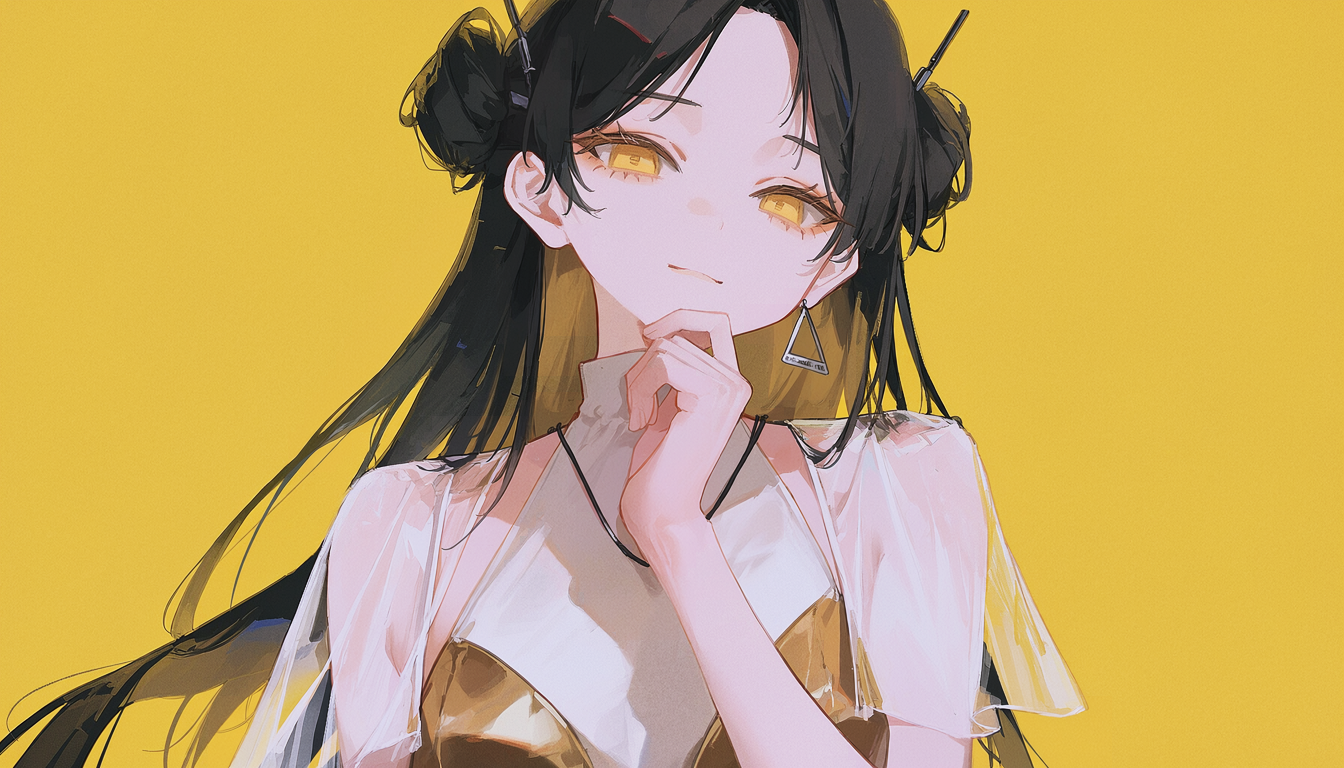
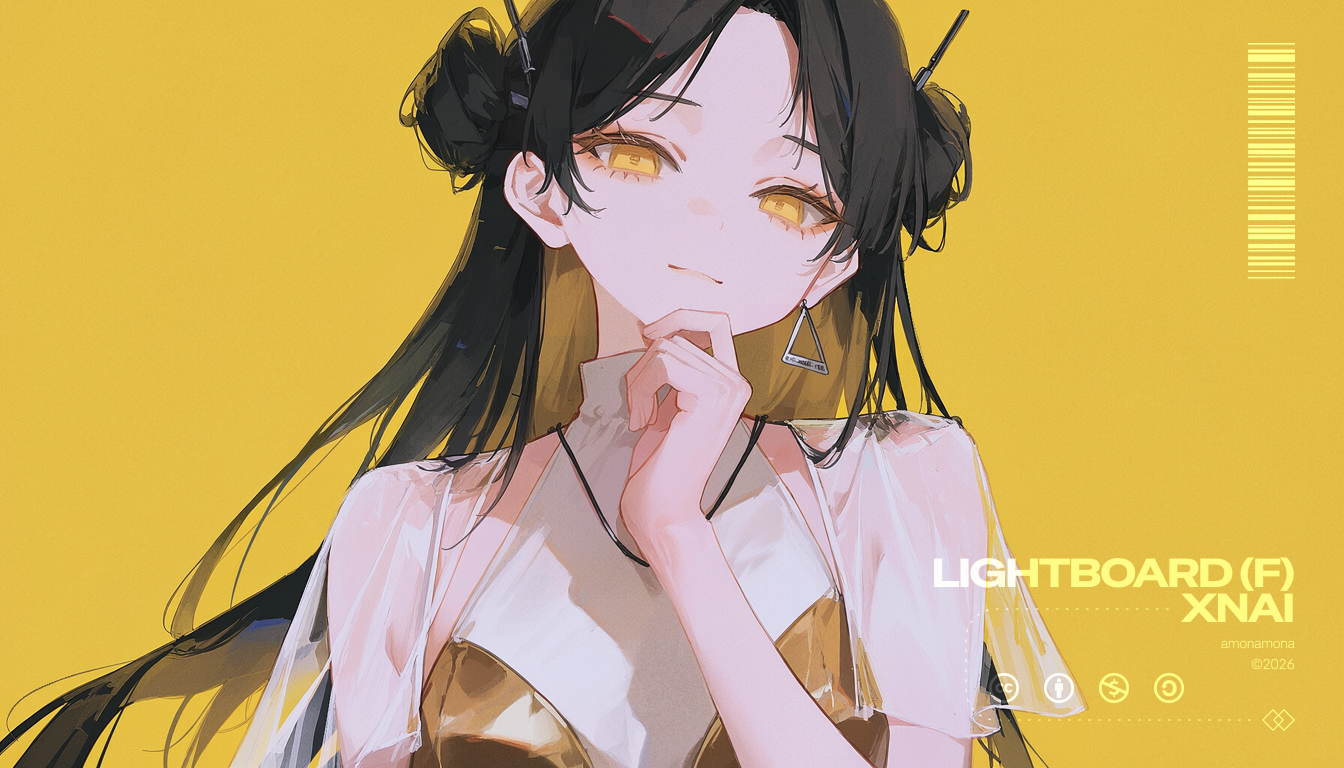
queue image regen, 4.5.5

diff --git a/lb-xnai/guide.html b/lb-xnai/guide.html
@@ -1,0 +1,261 @@
+<p>
+  <br />
+</p>
+<div style="background: #f6f3ea; color: #111111; font-family: 'Pretendard', sans-serif; margin: 0 auto; max-width: 820px; word-break: keep-all">
+  <div>스플래시 이미지</div>
+  <div
+    style="
+      background: #111111;
+      color: #ffffff;
+      font-size: clamp(24px, 5.5vw, 38px);
+      font-weight: 900;
+      letter-spacing: -0.06em;
+      line-height: 1;
+      padding: clamp(14px, 3vw, 20px) clamp(16px, 5vw, 48px);
+    "
+    >라이트보드<span style="color: #e6bb35">삽화</span></div
+  >
+  <div style="padding: 0 clamp(16px, 5vw, 48px)">
+    <div style="font-size: 14px; line-height: 1.8; padding: 24px 0">
+      <div style="display: grid; grid-template-columns: 14px 1fr">
+        <div style="padding-top: 8px"><div style="background: #e6bb35; height: 8px; width: 8px">&nbsp;</div></div>
+        <div
+          ><a href="https://arca.live/b/characterai/181037530"
+            ><span style="border-bottom: 1px solid #111111; color: #111111; display: inline-block; font-weight: 800">처음사용자용 가이드</span></a
+          >를 따라 백엔드와 삽화 기본 설정을 둘 다 완료하세요</div
+        ></div
+      >
+      <div style="display: grid; grid-template-columns: 14px 1fr; margin-top: 8px">
+        <div style="padding-top: 8px"><div style="background: #e6bb35; height: 8px; width: 8px">&nbsp;</div></div>
+        <div>삽화 4.5.4 기준으로 작성했어요</div></div
+      ></div
+    >
+
+    <details style="border-top: 1px solid #111111">
+      <summary style="list-style: none"
+        ><div style="font-size: clamp(26px, 6vw, 40px); font-weight: 900; letter-spacing: -0.06em; line-height: 0.95; padding: 24px 0"
+          >프리셋 관리 ＋</div
+        ></summary
+      >
+      <div style="padding: 8px 0 40px">
+        <div style="font-size: 14px; line-height: 1.85"
+          >다음 위치 중 원하는 곳에, <span style="background: #e6bb35; font-weight: 700; padding: 1px 6px">프리셋 (이름)</span>이라는 이름의 로어북을
+          생성하세요.</div
+        >
+        <ul style="font-size: 14px; line-height: 1.85; margin: 12px 0 0; padding-left: 20px">
+          <li>캐릭터 로어북</li>
+          <li>활성화된 모듈</li>
+        </ul>
+        <div style="font-size: 14px; line-height: 1.85; margin-top: 24px"
+          ><span style="font-weight: 800">이 로어북은 절대 활성화하지 마세요.</span> (활성화 키는 비워두기, 언제나 활성화는 체크 금지)</div
+        >
+        <div style="font-size: 14px; line-height: 1.85; margin-top: 12px">내용을 다음과 같이 교체하세요.</div>
+        <pre><div style="background: #1e1d1a; color: #f0e6d2; font-family: monospace; font-size: 12px; line-height: 1.7; margin: 12px 0 0; overflow-x: auto; padding: 18px 20px"><span style="color: #e6bb35">[Positive]</span>
+{prompt}, year 2025, masterpiece
+
+<span style="color: #e6bb35">[Negative]</span>
+bad quality, worst quality</div></pre>
+        <div style="font-size: 14px; line-height: 1.85; margin-top: 24px"
+          ><span style="font-family: monospace; font-size: 13px">[Positive]</span>와
+          <span style="font-family: monospace; font-size: 13px">[Negative]</span> 아래 내용은 사용 중인 NovelAI 그림체 관련 태그를 사용하세요.
+          <span style="font-family: monospace; font-size: 13px">{prompt}</span>의 위치는 적절한 곳으로 바꿀 수 있어요.
+          <span style="font-family: monospace; font-size: 13px">[Negative]</span>에도 똑같이 넣을 수 있어요.</div
+        >
+        <pre><div style="background: #1e1d1a; color: #f0e6d2; font-family: monospace; font-size: 12px; line-height: 1.7; margin: 12px 0 0; overflow-x: auto; padding: 18px 20px"><span style="color: #e6bb35">[Positive]</span>
+..., year 2025,
+
+{prompt},
+
+masterpiece, ...</div></pre>
+        <div style="background: #e6bb35; font-size: 14px; font-weight: 700; line-height: 1.85; margin-top: 24px; padding: 14px 16px"
+          >삽화 토글의 &quot;프리셋&quot; 칸에 &quot;이름&quot;을 입력하면, 재생성을 포함한 이후 이미지는 그 프리셋을 사용해 생성됩니다.</div
+        ></div
+      >
+    </details>
+
+    <details style="border-top: 1px solid #111111">
+      <summary style="list-style: none"
+        ><div style="font-size: clamp(26px, 6vw, 40px); font-weight: 900; letter-spacing: -0.06em; line-height: 0.95; padding: 24px 0"
+          >태그 가이드 제공하기 ＋</div
+        ></summary
+      >
+      <div style="padding: 8px 0 40px">
+        <div style="font-size: 14px; line-height: 1.85"
+          >다음 위치 중 원하는 곳에, 정확히
+          <span style="background: #e6bb35; font-family: monospace; font-size: 13px; padding: 1px 6px"><a>lb-xnai.lb.extra</a></span>
+          <span style="color: #6b6a64; font-size: 12px">(엘비-엑스엔에이아이.엘비.엑스트라)</span>라는 이름의 로어북을 생성하세요.</div
+        >
+        <ul style="font-size: 14px; line-height: 1.85; margin: 12px 0 0; padding-left: 20px">
+          <li>캐릭터 로어북</li>
+          <li>활성화된 모듈</li>
+        </ul>
+        <div style="font-size: 14px; line-height: 1.85; margin-top: 24px"
+          ><span style="font-weight: 800">이 로어북은 절대 활성화하지 마세요.</span> (활성화 키는 비워두기, 언제나 활성화는 체크 금지)</div
+        >
+        <div style="font-size: 14px; line-height: 1.85; margin-top: 12px">내용을 다음과 같이 교체하세요.</div>
+        <pre><div style="background: #1e1d1a; color: #f0e6d2; font-family: monospace; font-size: 12px; line-height: 1.7; margin: 12px 0 0; overflow-x: auto; padding: 18px 20px"><span style="color: #e6bb35">## Tagging Guide for {{char}}</span>
+
+...</div></pre>
+        <div style="font-size: 14px; line-height: 1.85; margin-top: 24px"
+          >헤딩도 포함해서 정해진 형식은 없어요. 단, <span style="font-family: monospace; font-size: 13px">##</span>부터 시작하세요.</div
+        >
+        <div style="font-size: 14px; line-height: 1.85; margin-top: 12px"
+          >태그를 제일 잘 표현할 수 있는 형태로 작성하세요. 캐릭터 외에 장소같은 것도 지정할 수 있어요.</div
+        >
+        <pre><div style="background: #1e1d1a; color: #f0e6d2; font-family: monospace; font-size: 12px; line-height: 1.7; margin: 12px 0 0; overflow-x: auto; padding: 18px 20px"><span style="color: #e6bb35">## Tagging Guide</span>
+
+<span style="color: #e6bb35">### Mephistopheles</span>
+
+Mephistopheles is red. State such with e.g. `interior, red bus` etc.
+
+<span style="color: #e6bb35">### Project Moon Characters</span>
+
+For appearance, ALWAYS prepend "x (project moon)" where `x` is the character's English name, e.g. "yi sang (project moon)".
+
+LCB sinner uniform in its full set: Black jacket or coat, black vest, white shirt, red necktie, black shoes. Sinners may not wear some items.
+
+<span style="color: #e6bb35">#### Don Quixote</span>
+
+`short blonde hair`</div></pre>
+        <div style="font-size: 12px; margin-top: 8px; text-align: right"
+          ><a href="LINK"><span style="border-bottom: 1px solid #111111; color: #111111; display: inline-block; font-weight: 700">Limbus Company</span></a
+          ><span style="color: #6b6a64">에서의 예시</span></div
+        >
+
+        <div style="border-top: 1px solid #111111; margin-top: 40px; padding-top: 24px">
+          <div style="font-size: clamp(22px, 5vw, 30px); font-weight: 900; letter-spacing: -0.05em; line-height: 1.1">사용자 요구사항 고급</div>
+          <div style="font-size: 14px; line-height: 1.85; margin-top: 16px"
+            ><span style="font-family: monospace; font-size: 13px"><a>lb-xnai.lb.extra</a></span
+            >는 여러 개 넣으면 여러 개 들어가요.</div
+          >
+          <ul style="font-size: 14px; line-height: 1.85; margin: 12px 0 0; padding-left: 20px">
+            <li>페소 외형 태그용, 외부 모듈 로어북</li>
+            <li>캐릭터 외형 태그용, 캐릭터 로어북</li>
+          </ul>
+          <div style="font-size: 14px; line-height: 1.85; margin-top: 24px">외형 태그 시, 삽화는 준수 수준을 3단계로 나눠 생각해요.</div>
+          <div style="border-bottom: 1px solid #111111; margin-top: 12px">
+            <div style="border-top: 1px solid #111111; display: grid; grid-template-columns: minmax(84px, 1fr) minmax(0, 3.2fr); padding: 14px 0">
+              <div
+                ><span style="font-size: 16px; font-weight: 900">참조</span><br /><span style="color: #6b6a64; font-family: monospace; font-size: 11px"
+                  >Reference</span
+                ></div
+              >
+              <div style="font-size: 13px; line-height: 1.8">상황에 따라 모델이 자유롭게 재구성할 수 있어요.</div></div
+            >
+            <div style="border-top: 1px solid #111111; display: grid; grid-template-columns: minmax(84px, 1fr) minmax(0, 3.2fr); padding: 14px 0">
+              <div
+                ><span style="font-size: 16px; font-weight: 900">잠김</span><br /><span style="color: #6b6a64; font-family: monospace; font-size: 11px"
+                  >Locked</span
+                ></div
+              >
+              <div style="font-size: 13px; line-height: 1.8"
+                >주어진 태그는 반드시 넣어야 하지만, 주어지지 않은 태그는 상황에 따라 모델이 자유롭게 추가할 수 있어요.</div
+              ></div
+            >
+            <div style="border-top: 1px solid #111111; display: grid; grid-template-columns: minmax(84px, 1fr) minmax(0, 3.2fr); padding: 14px 0">
+              <div
+                ><span style="font-size: 16px; font-weight: 900">확정</span><br /><span style="color: #6b6a64; font-family: monospace; font-size: 11px"
+                  >Closed</span
+                ></div
+              >
+              <div style="font-size: 13px; line-height: 1.8">주어진 태그는 반드시 넣어야 하고, 넣지 않은 태그는 임의로 추가하지 않아요.</div></div
+            ></div
+          >
+          <div style="font-size: 14px; line-height: 1.85; margin-top: 24px"
+            >기본적으로, 자연어로 안내를 제공하면 <span style="font-weight: 800">참조</span>가 되고, 태그를 제공하면
+            <span style="font-weight: 800">잠김</span>이 돼요. 한 개의 가이드 안에서 다른 준수 지침을 제공하려면 이 용어를 참고하세요.</div
+          >
+          <pre><div style="background: #1e1d1a; color: #f0e6d2; font-family: monospace; font-size: 12px; line-height: 1.7; margin: 12px 0 0; overflow-x: auto; padding: 18px 20px"><span style="color: #e6bb35">## Tagging Guide for {{char}}</span>
+
+<span style="color: #e6bb35">Locked</span> tags for her appearance: `medium blonde hair, 1.1::golden eyes::, ...`
+<span style="color: #e6bb35">Reference</span> tags for her signature fashion: `black techpunk jacket with blue lining, black boots, ...`</div></pre>
+        </div></div
+      >
+    </details>
+
+    <details style="border-top: 1px solid #111111">
+      <summary style="list-style: none"
+        ><div style="font-size: clamp(26px, 6vw, 40px); font-weight: 900; letter-spacing: -0.06em; line-height: 0.95; padding: 24px 0"
+          >토글 가이드 ＋</div
+        ></summary
+      >
+      <div style="padding: 8px 0 40px">
+        <div style="font-size: clamp(22px, 5vw, 30px); font-weight: 900; letter-spacing: -0.05em; line-height: 1.1">스타일</div>
+        <div style="display: grid; grid-template-columns: minmax(96px, 1fr) minmax(0, 2.6fr); margin-top: 16px">
+          <div style="font-size: 14px; font-weight: 900; line-height: 1.5; padding-right: 12px">프롬프트 가중치 약화</div>
+          <div style="font-size: 13px; line-height: 1.8"
+            ><div style="margin-bottom: 6px"><span style="background: #e6bb35; font-size: 12px; font-weight: 700; padding: 1px 6px">권장: 활성화</span></div
+            >장면 설정 등에 가중치 75%를 일괄 적용해요. 이것과 비슷해요.
+            <pre><div style="background: #1e1d1a; color: #f0e6d2; font-family: monospace; font-size: 12px; line-height: 1.7; margin: 12px 0 0; overflow-x: auto; padding: 14px 16px"><span style="color: #e6bb35">[Positive]</span>
+..., year 2025,
+
+0.75::{prompt} ::,
+
+masterpiece, ...</div></pre>
+          </div></div
+        >
+        <div style="display: grid; grid-template-columns: minmax(96px, 1fr) minmax(0, 2.6fr); margin-top: 24px">
+          <div style="font-size: 14px; font-weight: 900; line-height: 1.5; padding-right: 12px">포커스</div>
+          <div style="font-size: 13px; line-height: 1.8"
+            >삽화에 반드시 포함할 중심 인물(들)을 설정해요. 최대캐릭터를 1로 설정해서 개인 삽화만 만들거나, 2로 설정해서 페소와 특정 인물의 커플샷만 만들 수
+            있어요.</div
+          ></div
+        >
+        <div style="display: grid; grid-template-columns: minmax(96px, 1fr) minmax(0, 2.6fr); margin-top: 24px">
+          <div style="font-size: 14px; font-weight: 900; line-height: 1.5; padding-right: 12px">최대캐릭터</div>
+          <div style="font-size: 13px; line-height: 1.8"
+            ><div style="margin-bottom: 6px"
+              ><span style="background: #e6bb35; font-size: 12px; font-weight: 700; padding: 1px 6px">권장: Anima 사용 시 1</span></div
+            >삽화 한 개가 포함할 수 있는 캐릭터의 수를 제한할 수 있어요.</div
+          ></div
+        >
+        <div style="display: grid; grid-template-columns: minmax(96px, 1fr) minmax(0, 2.6fr); margin-top: 24px">
+          <div style="font-size: 14px; font-weight: 900; line-height: 1.5; padding-right: 12px">작가의노트</div>
+          <div style="font-size: 13px; line-height: 1.8"
+            >간단한 추가 지침을 제공할 수 있어요. <span style="font-family: monospace; font-size: 12px"><a>lb-xnai.lb.extra</a></span
+            >보다 짧은 내용을 바꿔가면서 넣을 때 사용하세요.</div
+          ></div
+        >
+        <div style="display: grid; grid-template-columns: minmax(96px, 1fr) minmax(0, 2.6fr); margin-top: 24px">
+          <div style="font-size: 14px; font-weight: 900; line-height: 1.5; padding-right: 12px">외형고정</div>
+          <div style="font-size: 13px; line-height: 1.8"
+            ><span style="font-family: monospace; font-size: 12px"><a>lb-xnai.lb.extra</a></span
+            >, 작가의노트, 캐릭터 태그 기록을 더 강하게 준수하도록 명령할 수 있어요.</div
+          ></div
+        >
+        <div style="display: grid; grid-template-columns: minmax(96px, 1fr) minmax(0, 2.6fr); margin-top: 24px">
+          <div style="font-size: 14px; font-weight: 900; line-height: 1.5; padding-right: 12px">카메라연출</div>
+          <div style="font-size: 13px; line-height: 1.8"
+            ><div style="margin-bottom: 6px"><span style="background: #e6bb35; font-size: 12px; font-weight: 700; padding: 1px 6px">권장: 강화</span></div
+            >구도 연출 강화를 지시할 수 있어요.</div
+          ></div
+        >
+        <div style="display: grid; grid-template-columns: minmax(96px, 1fr) minmax(0, 2.6fr); margin-top: 24px">
+          <div style="font-size: 14px; font-weight: 900; line-height: 1.5; padding-right: 12px">밝기</div>
+          <div style="font-size: 13px; line-height: 1.8">삽화 모듈 버튼들의 다크테마/라이트테마를 바꿀 수 있어요. 삽화 이미지에는 영향을 주지 않아요.</div></div
+        >
+        <div style="border-top: 1px solid #111111; margin-top: 40px; padding-top: 24px">
+          <div style="font-size: clamp(22px, 5vw, 30px); font-weight: 900; letter-spacing: -0.05em; line-height: 1.1">시스템</div>
+          <div style="display: grid; grid-template-columns: minmax(96px, 1fr) minmax(0, 2.6fr); margin-top: 16px">
+            <div style="font-size: 14px; font-weight: 900; line-height: 1.5; padding-right: 12px">긍정프롬</div>
+            <div style="font-size: 13px; line-height: 1.8"
+              >LLM에 전달되지 않고, 프리셋 <span style="font-family: monospace; font-size: 12px">[Positive]</span>의
+              <span style="font-family: monospace; font-size: 12px">{prompt}</span> 맨 뒤에 항상 추가돼요. 대부분 프리셋을 쓰는 게 나아요.</div
+            ></div
+          >
+          <div style="display: grid; grid-template-columns: minmax(96px, 1fr) minmax(0, 2.6fr); margin-top: 24px">
+            <div style="font-size: 14px; font-weight: 900; line-height: 1.5; padding-right: 12px">부정프롬</div>
+            <div style="font-size: 13px; line-height: 1.8"
+              >LLM에 전달되지 않고, 프리셋 <span style="font-family: monospace; font-size: 12px">[Negative]</span>의
+              <span style="font-family: monospace; font-size: 12px">{prompt}</span> 맨 뒤에 항상 추가돼요. 대부분 프리셋을 쓰는 게 나아요.</div
+            ></div
+          >
+        </div></div
+      >
+    </details>
+  </div>
+  <div style="background: #111111; font-size: 0; height: 16px; line-height: 0">&nbsp;</div></div
+>
+<p>
+  <br />
+</p>

diff --git a/lb-xnai/style.html b/lb-xnai/style.html
@@ -445,23 +445,17 @@
 
   @layer lb-xnai-all {
     /* 1. Hide menus during generation */
-    .chattext:has(:is(.x-risu-lb-xnai-all-state, .x-risu-lb-xnai-img-state, .x-risu-lb-xnai-placeholder-state):checked) .x-risu-lb-xnai-menu {
+    .chattext:has(.x-risu-lb-xnai-all-state:checked) .x-risu-lb-xnai-menu {
       display: none !important;
     }
 
-    /* 2. Block all other operations in message while any generation is running */
-    .chattext:has(:is(.x-risu-lb-xnai-all-state, .x-risu-lb-xnai-img-state, .x-risu-lb-xnai-placeholder-state):checked) :is(.x-risu-lb-xnai-inlay-actions, .x-risu-lb-xnai-kv-actions) {
+    /* 2. Block all other operations in message during whole generation */
+    .chattext:has(.x-risu-lb-xnai-all-state:checked) :is(.x-risu-lb-xnai-inlay-actions, .x-risu-lb-xnai-kv-actions) {
       display: none !important;
     }
 
-    .chattext:has(:is(.x-risu-lb-xnai-all-state, .x-risu-lb-xnai-img-state, .x-risu-lb-xnai-placeholder-state):checked) :is(.x-risu-lb-xnai-inlay > button, .x-risu-lb-xnai-kv) {
+    .chattext:has(.x-risu-lb-xnai-all-state:checked) :is(.x-risu-lb-xnai-inlay > button, .x-risu-lb-xnai-kv) {
       cursor: wait !important;
-      pointer-events: none !important;
-    }
-
-    .chattext:has(:is(.x-risu-lb-xnai-all-state, .x-risu-lb-xnai-img-state, .x-risu-lb-xnai-placeholder-state):checked) .x-risu-lb-xnai-placeholder:not(:has(:checked)) {
-      cursor: wait !important;
-      opacity: 0.4 !important;
       pointer-events: none !important;
     }
 

diff --git a/lb-xnai/lorebooks/lb/whole.tag.md b/lb-xnai/lorebooks/lb/whole.tag.md
@@ -258,6 +258,6 @@ Each leading `⇥` represents one TOON indentation level of exactly two spaces. 
 
 Optional fields must be OMITTED, not left with a empty line.
 
-{{#when::toggle::lb-xnai.scene.quantityexact}}Required{{:else}}Requested{{/when}} Scene count: {{#when::keep::{{and::{{? {{length::{{trim::{{getglobalvar::toggle_lb-xnai.scene.quantity}} }} }} > 0 }}::{{? {{getglobalvar::toggle_lb-xnai.scene.quantity}} != null }}}}}}"{{trim::{{getglobalvar::toggle_lb-xnai.scene.quantity}} }}"{{:else}}1-5{{/when}}.
+{{#when::toggle::lb-xnai.scene.quantityexact}}Required{{:else}}Requested{{/when}} Scene count: {{#when::keep::{{and::{{? {{length::{{trim::{{getglobalvar::toggle_lb-xnai.scene.quantity}} }} }} > 0 }}::{{? {{getglobalvar::toggle_lb-xnai.scene.quantity}} != null }}}}}}"{{trim::{{getglobalvar::toggle_lb-xnai.scene.quantity}} }}"{{:else}}1-5{{/when}}.{{#when::keep::toggle::lb-xnai.scene.quantityexact}} Produce exactly this many Scenes. When fewer eligible slots exist, use every eligible slot.{{/when}}
 
 {{#when::toggle::lb-xnai.japanese}}Write every generated text value in Japanese, including all camera, cast, positive, negative, name, description, and scene values. Translate canonical tag spellings into concise Japanese visual terms. Keep the `<lb-xnai>` markup, TOON field keys, numeric values, Boolean values, and tag-weight syntax unchanged.{{:else}}Write every generated text value in English.{{/when}}

diff --git a/lb-xnai/lorebooks/lb/whole.nl.md b/lb-xnai/lorebooks/lb/whole.nl.md
@@ -196,6 +196,6 @@ Each leading `⇥` represents one TOON indentation level of exactly two spaces. 
 
 Optional fields must be OMITTED, not left with a empty line.
 
-{{#when::toggle::lb-xnai.scene.quantityexact}}Required{{:else}}Requested{{/when}} Scene count: {{#when::keep::{{and::{{? {{length::{{trim::{{getglobalvar::toggle_lb-xnai.scene.quantity}} }} }} > 0 }}::{{? {{getglobalvar::toggle_lb-xnai.scene.quantity}} != null }}}}}}"{{trim::{{getglobalvar::toggle_lb-xnai.scene.quantity}} }}"{{:else}}1-5{{/when}}.
+{{#when::toggle::lb-xnai.scene.quantityexact}}Required{{:else}}Requested{{/when}} Scene count: {{#when::keep::{{and::{{? {{length::{{trim::{{getglobalvar::toggle_lb-xnai.scene.quantity}} }} }} > 0 }}::{{? {{getglobalvar::toggle_lb-xnai.scene.quantity}} != null }}}}}}"{{trim::{{getglobalvar::toggle_lb-xnai.scene.quantity}} }}"{{:else}}1-5{{/when}}.{{#when::keep::toggle::lb-xnai.scene.quantityexact}} Produce exactly this many Scenes. When fewer eligible slots exist, use every eligible slot.{{/when}}
 
 {{#when::toggle::lb-xnai.japanese}}Write every generated text value in Japanese, including all camera, cast, positive, negative, name, description, and scene values. Use concise, natural Japanese visual language. Keep the `<lb-xnai>` markup, TOON field keys, numeric values, Boolean values, and weight syntax unchanged.{{:else}}Write every generated text value in English.{{/when}}

diff --git a/lb-xnai/lorebooks/lb.thoughts.md b/lb-xnai/lorebooks/lb.thoughts.md
@@ -29,4 +29,4 @@ The following template is your internal guide. Reason through it thoroughly, eve
      - Derive the Scene-wide `cast` from the union of featured character identities across all panels. Count a recurring character once.{{/when}}{{#when::keep::lb-xnai.kv.off::tis::0}}
 7. Key Visual: `[Theme, Framing, Visible Body Span, List of Cropped-Out Attire]`{{/when}}
 
-Lastly, verify the steps. Fix invalid items.
+Lastly, verify the steps. Fix invalid items.{{#when::keep::toggle::lb-xnai.scene.quantityexact}} Confirm that #6 has exactly the Selected Count of Scenes, or one Scene per eligible slot from #5 when fewer eligible slots exist.{{/when}}
